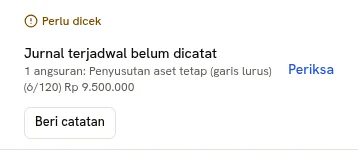
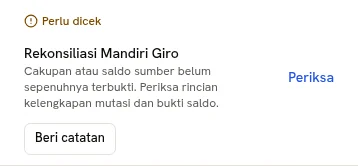
fix(public): keep evidence current and public routes responsive
Refresh the close views affected by integrated source-completeness controls and
version optimizer URLs by their captured file hashes so stale screenshots cannot
contradict the current findings. Qualify bank coverage for Rupiah accounts.

Separate unchanged button styles from the interactive primitive and split only
workspace Ask and Scope leaves. Keep the original shell loading paths after the
broader split delayed its keyboard listener, preserving existing navigation
while meeting the public mobile performance target.

Cycle: docs/cycles/2026-10-10-public-site-composition.md

diff --git a/components/app/public-landing.tsx b/components/app/public-landing.tsx
@@ -1,9 +1,8 @@
 import Image from "next/image";
-import Link from "next/link";
 import { ArrowDown, ArrowRight, ArrowUpRight, CircleAlert, CircleCheck, LockKeyhole } from "lucide-react";
 import { PublicSiteFrame } from "@/components/app/public-site-frame";
 import { PublicProductIllustration } from "@/components/app/public-product-illustration";
-import { buttonVariants } from "@/components/ui/button";
+import { buttonVariants } from "@/components/ui/button-variants";
 import { formatMoney } from "@/lib/money";
 import { PUBLIC_BANK_COUNT, PUBLIC_BANK_COVERAGE, type PublicProductAsset, type PublicProductEvidence } from "@/lib/public-product";
 import capture from "@/public/product/capture-manifest.json";
@@ -19,6 +18,8 @@ function asset(file: string): PublicProductAsset {
   return found;
 }
 
+const imageUrl = (image: PublicProductAsset) => `${image.file}?v=${image.sha256}`;
+
 /** Saved genuine app views; the phone source is an independently captured readable view. */
 function ProductImage({ name, mobileName = `${name}-mobile`, detailName, reportPreview = false, alt, caption }: { name: string; mobileName?: string; detailName?: string; reportPreview?: boolean; alt: string; caption: React.ReactNode }) {
   const desktop = asset(name);
@@ -28,11 +29,11 @@ function ProductImage({ name, mobileName = `${name}-mobile`, detailName, reportP
   return <figure className="min-w-0">
     <div className="overflow-hidden rounded-xl border bg-card">
       <picture className={reportPreview ? "block overflow-hidden md:max-h-96" : undefined}>
-        <source media="(max-width: 767px)" srcSet={mobile.file} width={mobile.width} height={mobile.height} />
-        <Image src={desktop.file} alt={alt} width={desktop.width} height={desktop.height} sizes="(max-width: 767px) 100vw, (max-width: 1279px) 60vw, 760px" loading="lazy" className="block h-auto w-full" />
+        <source media="(max-width: 767px)" srcSet={imageUrl(mobile)} width={mobile.width} height={mobile.height} />
+        <Image src={imageUrl(desktop)} alt={alt} width={desktop.width} height={desktop.height} sizes="(max-width: 767px) 100vw, (max-width: 1279px) 60vw, 760px" loading="lazy" className="block h-auto w-full" />
       </picture>
-      {totals && <div className="hidden border-t py-3 md:block"><Image src={totals.file} alt={totals.description} width={totals.width} height={totals.height} sizes="383px" loading="lazy" className="mx-auto block h-auto w-full max-w-sm" /></div>}
-      {detail && <Image src={detail.file} alt={detail.description} width={detail.width} height={detail.height} sizes="(max-width: 767px) 100vw, 660px" loading="lazy" className="block h-auto w-full border-t" />}
+      {totals && <div className="hidden border-t py-3 md:block"><Image src={imageUrl(totals)} alt={totals.description} width={totals.width} height={totals.height} sizes="383px" loading="lazy" className="mx-auto block h-auto w-full max-w-sm" /></div>}
+      {detail && <Image src={imageUrl(detail)} alt={detail.description} width={detail.width} height={detail.height} sizes="(max-width: 767px) 100vw, 660px" loading="lazy" className="block h-auto w-full border-t" />}
     </div>
     <figcaption className="mt-3 space-y-1 break-words text-xs leading-relaxed text-muted-foreground">
       <p>{caption}</p><p>{demoLabel}</p>
@@ -47,8 +48,8 @@ function FullProductView({ name, mobileName, summary, alt, caption }: { name: st
     <summary className="cursor-pointer text-sm font-medium">{summary}</summary>
     <figure className="mt-4">
       <picture>
-        <source media="(max-width: 767px)" srcSet={mobile.file} width={mobile.width} height={mobile.height} />
-        <Image src={image.file} alt={alt} width={image.width} height={image.height} sizes="(max-width: 767px) 100vw, 660px" loading="lazy" className="h-auto w-full rounded-xl border bg-card" />
+        <source media="(max-width: 767px)" srcSet={imageUrl(mobile)} width={mobile.width} height={mobile.height} />
+        <Image src={imageUrl(image)} alt={alt} width={image.width} height={image.height} sizes="(max-width: 767px) 100vw, 660px" loading="lazy" className="h-auto w-full rounded-xl border bg-card" />
       </picture>
       <figcaption className="mt-3 text-xs leading-relaxed text-muted-foreground">{caption} {demoLabel}</figcaption>
     </figure>
@@ -59,7 +60,7 @@ function BankFormats() {
   const evidenceLabel = { REAL: "contoh file", PUBLISHED: "format terdokumentasi", INFERRED: "pola umum, belum contoh asli" };
   return <details className="mt-10 border-y py-5" data-testid="public-bank-formats">
     <summary className="cursor-pointer text-sm font-medium">Bank dan format yang dikenali ({PUBLIC_BANK_COUNT} bank)</summary>
-    <p className="mt-4 max-w-3xl text-sm leading-relaxed text-muted-foreground">Dukungan berlaku untuk format berikut, bukan semua file dari bank yang sama. PDF, CSV, Excel dan MT940 dibaca sesuai tata letaknya. Sebagian format mengikuti pola umum dan belum diuji dengan contoh asli dari bank; file yang berbeda perlu diperiksa saat diimpor. Yang masuk adalah file yang Anda unggah.</p>
+    <p className="mt-4 max-w-3xl text-sm leading-relaxed text-muted-foreground">Dukungan berlaku untuk format berikut, bukan semua file dari bank yang sama. Rekening Rupiah dalam PDF, CSV, Excel dan MT940 dibaca sesuai tata letaknya. Sebagian format mengikuti pola umum dan belum diuji dengan contoh asli dari bank; file yang berbeda perlu diperiksa saat diimpor. Yang masuk adalah file yang Anda unggah.</p>
     <dl className="mt-5 divide-y">
       {PUBLIC_BANK_COVERAGE.map((bank) => <div key={bank.code} className="grid gap-2 py-3 sm:grid-cols-[11rem_1fr]">
         <dt className="text-sm font-medium">{bank.name}</dt>
@@ -81,7 +82,7 @@ export function PublicLanding() {
             <p className="eyebrow text-muted-foreground">Pembukuan untuk kantor akuntan dan perusahaan</p>
             <h1 id="landing-title" className="display mt-6 max-w-2xl text-[2.8rem] text-balance sm:text-[3.8rem] xl:text-[4rem]">Dari rekening koran ke laporan keuangan.</h1>
             <p className="mt-7 max-w-md text-lg leading-relaxed text-muted-foreground">Setiap angka punya asal. Buku menjaga jejaknya, akuntan Anda memutuskan yang perlu ditinjau.</p>
-            <div className="mt-8 flex flex-wrap items-center gap-4"><Link href="/daftar" className={buttonVariants({ size: "lg" })}>Minta akses uji coba<ArrowUpRight aria-hidden="true" /></Link><Link href="/deck" className="drill inline-flex items-center gap-2 text-sm">Lihat deck<ArrowRight className="size-4" aria-hidden="true" /></Link></div>
+            <div className="mt-8 flex flex-wrap items-center gap-4"><a href="/daftar" className={buttonVariants({ size: "lg" })}>Minta akses uji coba<ArrowUpRight aria-hidden="true" /></a><a href="/deck" className="drill inline-flex items-center gap-2 text-sm">Lihat deck<ArrowRight className="size-4" aria-hidden="true" /></a></div>
           </div>
           <PublicProductIllustration evidence={product} />
         </div>
@@ -118,7 +119,7 @@ export function PublicLanding() {
           <h2 id="firm-title" className="display mt-4 text-[2rem] sm:text-5xl">Tiap klien.<br />Tiap bulan.<br />Sampai tuntas.</h2>
           <p className="mt-6 max-w-md text-base leading-relaxed text-muted-foreground">Semua klien dalam satu kantor. Akuntan meninjau usulan akun dan memeriksa temuan sebelum Tutup Buku.</p>
           <p className="mt-4 max-w-md text-base leading-relaxed text-muted-foreground">Aturan yang sudah dikenali bisa membukukan transaksi langsung. Usulan AI menunggu persetujuan akuntan.</p>
-          <Link href="/deck/kantor.html" className="drill mt-7 inline-flex items-center gap-2 text-sm">Baca deck kantor akuntan<ArrowUpRight className="size-4" aria-hidden="true" /></Link>
+          <a href="/deck/kantor.html" className="drill mt-7 inline-flex items-center gap-2 text-sm">Baca deck kantor akuntan<ArrowUpRight className="size-4" aria-hidden="true" /></a>
         </div>
         <div className="min-w-0">
           <div className="flex items-start justify-between gap-4 border-b pb-5">
@@ -144,7 +145,7 @@ export function PublicLanding() {
           <h2 id="company-title" className="display mt-4 text-[2rem] sm:text-5xl">Laporan Anda.<br />Dari buku yang sama.</h2>
           <p className="mt-6 max-w-md text-base leading-relaxed text-muted-foreground">Kirim rekening koran dan saldo awal. Tim keuangan atau kantor akuntan meninjau transaksi; Anda membaca laporan dari pembukuan yang sama.</p>
           <p className="mt-4 max-w-md text-base leading-relaxed text-muted-foreground">Neraca Saldo, Laba Rugi dan Neraca berasal dari jurnal yang dibukukan. Unduh Excel atau PDF. Angka laporan bisa ditelusuri ke sumbernya.</p>
-          <Link href="/deck/perusahaan.html" className="drill mt-7 inline-flex items-center gap-2 text-sm">Baca deck perusahaan<ArrowUpRight className="size-4" aria-hidden="true" /></Link>
+          <a href="/deck/perusahaan.html" className="drill mt-7 inline-flex items-center gap-2 text-sm">Baca deck perusahaan<ArrowUpRight className="size-4" aria-hidden="true" /></a>
         </div>
         <div className="min-w-0 lg:col-start-1 lg:row-start-1">
           <ProductImage name="trial-balance" mobileName="trial-balance-totals-mobile" reportPreview alt={`Cuplikan Neraca Saldo ${product.reportEntity.name} ${month}. Tampilan lengkap memuat seluruh akun dan total saldo debit dan kredit seimbang sebesar ${amount(product.trialBalance.debit)}.`} caption={<>{product.reportEntity.name} · {month}. Neraca Saldo dari jurnal yang sudah dibukukan; tampilan lengkap memuat seluruh akun dan total.</>} />
@@ -153,8 +154,8 @@ export function PublicLanding() {
       </section>
 
       <section aria-labelledby="trial-title" className="grid items-end gap-8 py-12 sm:py-24 md:grid-cols-[1fr_auto] md:gap-20">
-        <div className="max-w-2xl"><p className="eyebrow text-muted-foreground">Mulai dari buku Anda</p><h2 id="trial-title" className="display mt-4 text-[2rem] sm:text-5xl">Satu bulan dulu.<br />Lihat sendiri jejaknya.</h2><p className="mt-5 max-w-lg text-base leading-relaxed text-muted-foreground">Ajukan uji coba untuk kantor atau perusahaan Anda. Tim Buku meninjau permintaan, lalu mengirim undangan. Baca <Link href="/syarat" className="drill">Syarat</Link> dan <Link href="/kebijakan-privasi" className="drill">Privasi</Link>, termasuk akses dukungan dan pemrosesan data.</p></div>
-        <Link href="/daftar" className={buttonVariants({ size: "lg", className: "justify-self-start md:mb-1" })}>Minta akses uji coba<ArrowUpRight aria-hidden="true" /></Link>
+        <div className="max-w-2xl"><p className="eyebrow text-muted-foreground">Mulai dari buku Anda</p><h2 id="trial-title" className="display mt-4 text-[2rem] sm:text-5xl">Satu bulan dulu.<br />Lihat sendiri jejaknya.</h2><p className="mt-5 max-w-lg text-base leading-relaxed text-muted-foreground">Ajukan uji coba untuk kantor atau perusahaan Anda. Tim Buku meninjau permintaan, lalu mengirim undangan. Baca <a href="/syarat" className="drill">Syarat</a> dan <a href="/kebijakan-privasi" className="drill">Privasi</a>, termasuk akses dukungan dan pemrosesan data.</p></div>
+        <a href="/daftar" className={buttonVariants({ size: "lg", className: "justify-self-start md:mb-1" })}>Minta akses uji coba<ArrowUpRight aria-hidden="true" /></a>
       </section>
     </div>
   </PublicSiteFrame>;

diff --git a/components/ui/button.tsx b/components/ui/button.tsx
@@ -1,45 +1,9 @@
 import { Button as ButtonPrimitive } from "@base-ui/react/button"
-import { cva, type VariantProps } from "class-variance-authority"
+import type { VariantProps } from "class-variance-authority"
+import { buttonVariants } from "./button-variants"
 
 import { cn } from "@/lib/utils"
 
-const buttonVariants = cva(
-  "group/button inline-flex shrink-0 items-center justify-center rounded-lg border border-transparent bg-clip-padding text-sm font-medium whitespace-nowrap transition-all outline-none select-none focus-visible:border-ring focus-visible:ring-3 focus-visible:ring-ring/50 active:not-aria-[haspopup]:translate-y-px disabled:pointer-events-none disabled:opacity-50 aria-invalid:border-destructive aria-invalid:ring-3 aria-invalid:ring-destructive/20 dark:aria-invalid:border-destructive/50 dark:aria-invalid:ring-destructive/40 [&_svg]:pointer-events-none [&_svg]:shrink-0 [&_svg:not([class*='size-'])]:size-4",
-  {
-    variants: {
-      variant: {
-        default: "bg-brand text-brand-foreground hover:bg-brand-hover [a]:hover:bg-brand-hover",
-        outline:
-          "border-border bg-card hover:bg-muted hover:text-foreground aria-expanded:bg-muted aria-expanded:text-foreground dark:border-input dark:bg-input/30 dark:hover:bg-input/50",
-        secondary:
-          "bg-secondary text-secondary-foreground hover:bg-secondary/80 aria-expanded:bg-secondary aria-expanded:text-secondary-foreground",
-        ghost:
-          "hover:bg-muted hover:text-foreground aria-expanded:bg-muted aria-expanded:text-foreground dark:hover:bg-muted/50",
-        ink: "bg-foreground text-background hover:bg-foreground/85",
-        destructive:
-          "bg-destructive/10 text-destructive hover:bg-destructive/20 focus-visible:border-destructive/40 focus-visible:ring-destructive/20 dark:bg-destructive/20 dark:hover:bg-destructive/30 dark:focus-visible:ring-destructive/40",
-        link: "text-primary underline-offset-4 hover:underline",
-      },
-      size: {
-        default:
-          "h-9 gap-1.5 px-3 has-data-[icon=inline-end]:pr-2.5 has-data-[icon=inline-start]:pl-2.5",
-        xs: "h-7 gap-1 rounded-[min(var(--radius-md),10px)] px-2 text-xs in-data-[slot=button-group]:rounded-lg has-data-[icon=inline-end]:pr-1.5 has-data-[icon=inline-start]:pl-1.5 [&_svg:not([class*='size-'])]:size-3",
-        sm: "h-8 gap-1 rounded-[min(var(--radius-md),12px)] px-2.5 text-[0.8rem] in-data-[slot=button-group]:rounded-lg has-data-[icon=inline-end]:pr-1.5 has-data-[icon=inline-start]:pl-1.5 [&_svg:not([class*='size-'])]:size-3.5",
-        lg: "h-10 gap-2 px-4 has-data-[icon=inline-end]:pr-3 has-data-[icon=inline-start]:pl-3",
-        icon: "size-9",
-        "icon-xs":
-          "size-7 rounded-[min(var(--radius-md),10px)] in-data-[slot=button-group]:rounded-lg [&_svg:not([class*='size-'])]:size-3",
-        "icon-sm":
-          "size-8 rounded-[min(var(--radius-md),12px)] in-data-[slot=button-group]:rounded-lg",
-        "icon-lg": "size-10",
-      },
-    },
-    defaultVariants: {
-      variant: "default",
-      size: "default",
-    },
-  }
-)
 
 function Button({
   className,

diff --git a/components/ui/button-variants.ts b/components/ui/button-variants.ts
@@ -1,0 +1,40 @@
+import { cva } from "class-variance-authority"
+
+export const buttonVariants = cva(
+  "group/button inline-flex shrink-0 items-center justify-center rounded-lg border border-transparent bg-clip-padding text-sm font-medium whitespace-nowrap transition-all outline-none select-none focus-visible:border-ring focus-visible:ring-3 focus-visible:ring-ring/50 active:not-aria-[haspopup]:translate-y-px disabled:pointer-events-none disabled:opacity-50 aria-invalid:border-destructive aria-invalid:ring-3 aria-invalid:ring-destructive/20 dark:aria-invalid:border-destructive/50 dark:aria-invalid:ring-destructive/40 [&_svg]:pointer-events-none [&_svg]:shrink-0 [&_svg:not([class*='size-'])]:size-4",
+  {
+    variants: {
+      variant: {
+        default: "bg-brand text-brand-foreground hover:bg-brand-hover [a]:hover:bg-brand-hover",
+        outline:
+          "border-border bg-card hover:bg-muted hover:text-foreground aria-expanded:bg-muted aria-expanded:text-foreground dark:border-input dark:bg-input/30 dark:hover:bg-input/50",
+        secondary:
+          "bg-secondary text-secondary-foreground hover:bg-secondary/80 aria-expanded:bg-secondary aria-expanded:text-secondary-foreground",
+        ghost:
+          "hover:bg-muted hover:text-foreground aria-expanded:bg-muted aria-expanded:text-foreground dark:hover:bg-muted/50",
+        ink: "bg-foreground text-background hover:bg-foreground/85",
+        destructive:
+          "bg-destructive/10 text-destructive hover:bg-destructive/20 focus-visible:border-destructive/40 focus-visible:ring-destructive/20 dark:bg-destructive/20 dark:hover:bg-destructive/30 dark:focus-visible:ring-destructive/40",
+        link: "text-primary underline-offset-4 hover:underline",
+      },
+      size: {
+        default:
+          "h-9 gap-1.5 px-3 has-data-[icon=inline-end]:pr-2.5 has-data-[icon=inline-start]:pl-2.5",
+        xs: "h-7 gap-1 rounded-[min(var(--radius-md),10px)] px-2 text-xs in-data-[slot=button-group]:rounded-lg has-data-[icon=inline-end]:pr-1.5 has-data-[icon=inline-start]:pl-1.5 [&_svg:not([class*='size-'])]:size-3",
+        sm: "h-8 gap-1 rounded-[min(var(--radius-md),12px)] px-2.5 text-[0.8rem] in-data-[slot=button-group]:rounded-lg has-data-[icon=inline-end]:pr-1.5 has-data-[icon=inline-start]:pl-1.5 [&_svg:not([class*='size-'])]:size-3.5",
+        lg: "h-10 gap-2 px-4 has-data-[icon=inline-end]:pr-3 has-data-[icon=inline-start]:pl-3",
+        icon: "size-9",
+        "icon-xs":
+          "size-7 rounded-[min(var(--radius-md),10px)] in-data-[slot=button-group]:rounded-lg [&_svg:not([class*='size-'])]:size-3",
+        "icon-sm":
+          "size-8 rounded-[min(var(--radius-md),12px)] in-data-[slot=button-group]:rounded-lg",
+        "icon-lg": "size-10",
+      },
+    },
+    defaultVariants: {
+      variant: "default",
+      size: "default",
+    },
+  }
+)
+

diff --git a/tests/unit/public-product.test.ts b/tests/unit/public-product.test.ts
@@ -1,6 +1,7 @@
 // @vitest-environment jsdom
 import { createElement } from "react";
 import { renderToStaticMarkup } from "react-dom/server";
+import { createHash } from "node:crypto";
 import { readFile } from "node:fs/promises";
 import { join } from "node:path";
 import sharp from "sharp";
@@ -22,6 +23,7 @@ describe("saved public product evidence", () => {
     const disclosure = dom.querySelector("[data-testid='public-bank-formats']")!;
     expect(disclosure.querySelector("summary")?.textContent).toContain(`(${PUBLIC_BANK_COUNT} bank)`);
     expect(disclosure.textContent).toContain("bukan semua file dari bank yang sama");
+    expect(disclosure.textContent).toContain("Rekening Rupiah");
     const rows = [...disclosure.querySelectorAll("dl > div")];
     expect(rows).toHaveLength(PUBLIC_BANK_COVERAGE.length);
     for (const claim of PUBLIC_BANK_COVERAGE) {
@@ -52,10 +54,20 @@ describe("saved public product evidence", () => {
       if (figure.querySelector("picture")) {
         expect(figure.querySelector("source")?.getAttribute("media")).toBe("(max-width: 767px)");
         const mobile = figure.querySelector("source")?.getAttribute("srcset");
-        expect(capture.assets.some((asset) => asset.file === mobile)).toBe(true);
+        const url = new URL(mobile!, "http://localhost");
+        const asset = capture.assets.find((entry) => entry.file === url.pathname);
+        expect(asset).toBeDefined();
+        expect(url.searchParams.get("v")).toBe(asset?.sha256);
       }
     }
-    for (const figure of figures) expect(figure.querySelector("img")?.getAttribute("loading")).toBe("lazy");
+    for (const image of dom.querySelectorAll("img")) {
+      expect(image.getAttribute("loading")).toBe("lazy");
+      const rendered = new URL(image.getAttribute("src")!, "http://localhost");
+      const original = new URL(rendered.searchParams.get("url") ?? rendered.href, "http://localhost");
+      const asset = capture.assets.find((entry) => entry.file === original.pathname);
+      expect(asset).toBeDefined();
+      expect(original.searchParams.get("v")).toBe(asset?.sha256);
+    }
     expect(dom.body.textContent).toContain(capture.source.fileName);
     expect(dom.body.textContent).not.toContain("—");
     expect(dom.body.textContent).not.toMatch(/Supabase|Anthropic|OpenAI|OpenCode|Vercel|revolusioner|powered by AI/);
@@ -67,6 +79,7 @@ describe("saved public product evidence", () => {
       const bytes = await readFile(join(process.cwd(), "public", asset.file));
       const metadata = await sharp(bytes).metadata();
       expect(bytes.length).toBe(asset.bytes);
+      expect(createHash("sha256").update(bytes).digest("hex")).toBe(asset.sha256);
       expect(metadata.format).toBe("webp");
       expect(metadata.width).toBe(asset.width);
       expect(metadata.height).toBe(asset.height);

diff --git a/components/app/public-site-chrome.tsx b/components/app/public-site-chrome.tsx
@@ -1,14 +1,14 @@
 import Link from "next/link";
 import { BrandMark } from "@/components/app/brand-mark";
-import { buttonVariants } from "@/components/ui/button";
+import { buttonVariants } from "@/components/ui/button-variants";
 
 export function PublicHeader() {
   return <header className="relative border-b bg-background">
     <div className="mx-auto flex min-h-20 max-w-7xl items-center justify-between gap-3 px-5 sm:px-8">
-      <Link href="/" className="flex items-center gap-2 rounded-md text-xl font-semibold focus-visible:outline-2 focus-visible:outline-offset-4 focus-visible:outline-ring" aria-label="Buku, beranda"><BrandMark />Buku</Link>
+      <Link prefetch={false} href="/" className="flex items-center gap-2 rounded-md text-xl font-semibold focus-visible:outline-2 focus-visible:outline-offset-4 focus-visible:outline-ring" aria-label="Buku, beranda"><BrandMark />Buku</Link>
       <nav aria-label="Navigasi publik" className="flex items-center gap-1 sm:gap-3">
-        <Link href="/login" className={buttonVariants({ variant: "ghost" })}>Masuk</Link>
-        <Link href="/daftar" className={buttonVariants({ variant: "outline" })}>Minta uji coba</Link>
+        <Link prefetch={false} href="/login" className={buttonVariants({ variant: "ghost" })}>Masuk</Link>
+        <Link prefetch={false} href="/daftar" className={buttonVariants({ variant: "outline" })}>Minta uji coba</Link>
       </nav>
     </div>
   </header>;
@@ -19,7 +19,7 @@ export function PublicFooter({ contact = <span>Hubungi pengelola Buku</span> }: 
     <div className="mx-auto flex max-w-7xl flex-col gap-4 px-5 py-7 text-sm text-muted-foreground sm:flex-row sm:items-center sm:justify-between sm:px-8">
       <p>Buku · Pembukuan yang bisa ditelusuri.</p>
       <nav aria-label="Ketentuan dan kontak" className="flex flex-wrap items-center gap-x-5 gap-y-3">
-        <Link href="/syarat" className="drill">Syarat</Link><Link href="/kebijakan-privasi" className="drill">Privasi</Link>{contact}
+        <Link prefetch={false} href="/syarat" className="drill">Syarat</Link><Link prefetch={false} href="/kebijakan-privasi" className="drill">Privasi</Link>{contact}
       </nav>
     </div>
   </footer>;

diff --git a/scripts/capture-public-demo.ts b/scripts/capture-public-demo.ts
@@ -6,6 +6,7 @@
  */
 import "dotenv/config";
 import assert from "node:assert/strict";
+import { createHash } from "node:crypto";
 import { mkdir, writeFile } from "node:fs/promises";
 import { join } from "node:path";
 import { chromium, expect, type Locator, type Page } from "@playwright/test";
@@ -109,7 +110,7 @@ async function main() {
     assert.notEqual(period?.status, "LOCKED", "August must remain open for the honest blocker screenshot.");
 
     const browser = await chromium.launch(process.env.PW_CHROMIUM ? { executablePath: process.env.PW_CHROMIUM } : undefined);
-    const assets: { file: string; width: number; height: number; bytes: number; description: string }[] = [];
+    const assets: { file: string; width: number; height: number; bytes: number; sha256: string; description: string }[] = [];
     try {
       const context = await browser.newContext({ baseURL: target.origin, viewport: { width: 1440, height: 1700 }, deviceScaleFactor: 1, reducedMotion: "reduce" });
       let signedIn = false;
@@ -140,7 +141,7 @@ async function main() {
           : await locator.screenshot({ animations: "disabled" });
         const { data, info } = await sharp(png).webp({ quality: 86, effort: 6 }).toBuffer({ resolveWithObject: true });
         await writeFile(join(OUTPUT, name), data);
-        assets.push({ file: `/product/${name}`, width: info.width, height: info.height, bytes: data.byteLength, description });
+        assets.push({ file: `/product/${name}`, width: info.width, height: info.height, bytes: data.byteLength, sha256: createHash("sha256").update(data).digest("hex"), description });
       };
       const scope = `period=${PERIOD}&entity=${entity.id}`;
       const base = `/clients/${client.id}`;

diff --git a/app/page.tsx b/app/page.tsx
@@ -3,10 +3,7 @@ import type { Metadata } from "next";
 import { getWorkspaceSession } from "@/lib/auth/session";
 import { getPlatformAdmin } from "@/lib/auth/platform";
 import { PublicLanding } from "@/components/app/public-landing";
-import WorkspaceHome from "@/components/app/workspace-home";
 import type { WorkspaceSearchParams } from "@/components/app/workspace-page";
-import AppLayout from "./(app)/layout";
-import AppTemplate from "./(app)/template";
 
 export const dynamic = "force-dynamic";
 export const maxDuration = 300;
@@ -29,5 +26,9 @@ export default async function HomePage({ searchParams }: { searchParams: Workspa
   // A live, verified support session keeps the selected member's workspace.
   if (!session?.support && await getPlatformAdmin()) redirect("/backoffice");
   if (!session) return <PublicLanding />;
+  // Keep member-only module loading behind the existing session dispatch.
+  const [{ default: WorkspaceHome }, { default: AppLayout }, { default: AppTemplate }] = await Promise.all([
+    import("@/components/app/workspace-home"), import("./(app)/layout"), import("./(app)/template"),
+  ]);
   return <AppLayout><AppTemplate><WorkspaceHome searchParams={searchParams} /></AppTemplate></AppLayout>;
 }

diff --git a/next.config.ts b/next.config.ts
@@ -1,6 +1,14 @@
 import type { NextConfig } from "next";
+import capture from "./public/product/capture-manifest.json";
 
 const nextConfig: NextConfig = {
+  // Refreshed public evidence gets an exact content-versioned optimizer URL.
+  images: {
+    localPatterns: [
+      { pathname: "**", search: "" },
+      ...capture.assets.map((asset) => ({ pathname: asset.file, search: `?v=${asset.sha256}` })),
+    ],
+  },
   serverExternalPackages: ["pg", "exceljs", "pdfkit"],
   // AGENTS.md (and its CLAUDE.md symlink) is hand-maintained; stop `next dev` from rewriting it.
   agentRules: false,

diff --git a/components/app/workspace-overview.tsx b/components/app/workspace-overview.tsx
@@ -3,7 +3,7 @@ import { ArrowRight, CircleAlert, CircleCheck, Clock3 } from "lucide-react";
 import type { WorkspaceOverview } from "@/lib/workspace";
 import { workspaceHref } from "@/lib/workspace";
 import { formatDateTime } from "@/lib/format";
-import { buttonVariants } from "@/components/ui/button";
+import { buttonVariants } from "@/components/ui/button-variants";
 import { Card, CardContent, CardDescription, CardHeader, CardTitle } from "@/components/ui/card";
 import { StatusPill } from "@/components/app/status";
 import { CountUp } from "@/components/motion/count-up";

diff --git a/components/app/workspace-home.tsx b/components/app/workspace-home.tsx
@@ -1,6 +1,5 @@
 import { PageHeader, NextStep } from "@/components/app/page-header";
-import { WorkspaceScopeBar } from "@/components/app/workspace-scope";
-import { WorkspaceAsk } from "@/components/app/workspace-ask";
+import { WorkspaceScopeBar, WorkspaceAsk } from "@/components/app/workspace-lazy";
 import { WorkspaceTasks, WorkspaceClose, WorkspaceFinancials } from "@/components/app/workspace-overview";
 import { loadWorkspace, WorkspaceScopeError, type WorkspaceSearchParams } from "@/components/app/workspace-page";
 import { redirect } from "next/navigation";

diff --git a/lib/public-product.ts b/lib/public-product.ts
@@ -8,7 +8,7 @@ export const PUBLIC_BANK_COVERAGE = BANKS.map((bank) => ({
 }));
 export const PUBLIC_BANK_COUNT = PUBLIC_BANK_COVERAGE.length;
 
-export type PublicProductAsset = { file: string; width: number; height: number; bytes: number; description: string };
+export type PublicProductAsset = { file: string; width: number; height: number; bytes: number; sha256: string; description: string };
 export type PublicProductEvidence = {
   period: string;
   firm: { name: string };

diff --git a/components/app/page-header.tsx b/components/app/page-header.tsx
@@ -1,7 +1,7 @@
 import Link from "next/link";
 import { ArrowRight } from "lucide-react";
 import { cn } from "@/lib/utils";
-import { buttonVariants } from "@/components/ui/button";
+import { buttonVariants } from "@/components/ui/button-variants";
 import { CheckDraw } from "@/components/motion/check-draw";
 
 export function PageHeader({ title, description, actions }: { title: string; description?: React.ReactNode; actions?: React.ReactNode }) {
